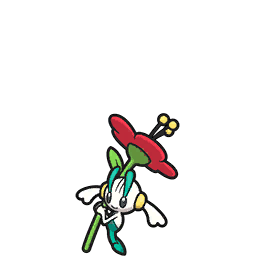
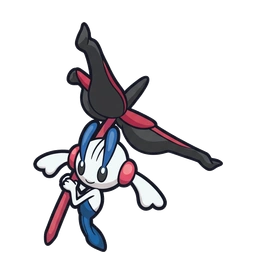
메가플라엣테

Changed region(s): [[0.125, 0.0625, 0.875, 1.0]]

diff --git a/src/skill/PokemonSkillList.js b/src/skill/PokemonSkillList.js
@@ -493,6 +493,16 @@ export const POKEMON_SKILLS = {
     core: ["도발", "날개쉬기", "도깨비불", "플레어드라이브", "브레이브버드", "애크러뱃", "유턴", "화염방사", "회오리불꽃", "순풍"],
     others: ["칼춤", "공중날기", "돌진", "이판사판태클", "울음소리", "불꽃세례", "파괴광선", "쪼기", "솔라빔", "고속이동", "전광석화", "불대문자", "스피드스타", "잠자기", "대타출동", "도둑질", "바둥바둥", "방어", "버티기", "강철날개", "잠꼬대", "비바라기", "쾌청", "열풍", "객기", "깃털댄스", "에어커터", "오버히트", "제비반환", "벌크업", "페인트", "에어슬래시", "기가임팩트", "안개제거", "니트로차지", "폭풍", "더블윙", "테라버스트", "열불내기", "기선제압", "패스트가드", "블레이즈킥", "돌림노래", "불새", "코골기", "날려버리기"],
   },
+  // 플라엣테
+  "0670": {
+    core: ["파멸의빛", "문포스", "드레인키스", "명상", "사이코키네시스", "에너지볼"],
+    others: ["몸통박치기", "몸가누기", "요정의바람", "빛의장막", "매지컬리프", "공생", "소망떨어뜨리기", "아로마테라피", "꽃보라", "매지컬샤인", "솔라빔", "대타출동", "방어", "잠자기", "잠꼬대", "풀묶기", "애교부리기", "도우미", "쾌청", "비바라기", "객기", "웨더볼"],
+  },
+  // 메가플라엣테
+  "0670-m": {
+    core: ["파멸의빛", "문포스", "드레인키스", "명상", "사이코키네시스", "에너지볼"],
+    others: ["몸통박치기", "몸가누기", "요정의바람", "빛의장막", "매지컬리프", "공생", "소망떨어뜨리기", "아로마테라피", "꽃보라", "매지컬샤인", "솔라빔", "대타출동", "방어", "잠자기", "잠꼬대", "풀묶기", "애교부리기", "도우미", "쾌청", "비바라기", "객기", "웨더볼"],
+  },
   // 견고라스
   "0697": {
     core: ["양날박치기", "지진", "역린", "용의춤", "불꽃엄니", "스케일샷", "뿔드릴", "인파이트", "얼음엄니", "아이언헤드"],
@@ -773,6 +783,7 @@ export const POKEMON_SKILL_ALIASES = {
   흑마렉스: "0898-b",
   다투곰: "0901-a",
   달투곰: "0901-b",
+  메가플라엣테: "0670-m",
   메가킬라플로르: "0970-m",
   메가드닐레이브: "0998-m",
 };

diff --git a/src/entity/Item.js b/src/entity/Item.js
@@ -39,10 +39,11 @@ export const itemText = {
   한카리아스나이트: "한카리아스에게 지니게 하면 배틀 중 메가진화할 수 있다.",
   한카리아스나이트Z: "한카리아스에게 지니게 하면 배틀 중 메가진화할 수 있다.",
   킬라플로르나이트: "킬라플로르에게 지니게 하면 배틀 중 메가진화할 수 있다.",
+  플라엣테나이트: "플라엣테에게 지니게 하면 배틀 중 메가진화할 수 있다.",
 };
 
 //탁떨, 트릭 적용 안되는 아이템
-export const noNullItem = ["녹슨검", "녹슨방패", "메타그로스나이트", "리자몽나이트X", "리자몽나이트Y", "보만다나이트", "입치트나이트", "아쿠스타나이트", "대짱이나이트", "마기라스나이트", "무장조나이트", "한카리아스나이트", "한카리아스나이트Z", "드닐레이브나이트", "킬라플로르나이트"];
+export const noNullItem = ["녹슨검", "녹슨방패", "메타그로스나이트", "리자몽나이트X", "리자몽나이트Y", "보만다나이트", "입치트나이트", "아쿠스타나이트", "대짱이나이트", "마기라스나이트", "무장조나이트", "한카리아스나이트", "한카리아스나이트Z", "드닐레이브나이트", "킬라플로르나이트", "플라엣테나이트"];
 
 export const aiItemScore = {
   // 탁떨로 딸궜을때 유용한 정도 가중치

diff --git a/src/entity/Skill/skillList/catk.js b/src/entity/Skill/skillList/catk.js
@@ -36,6 +36,7 @@ export const catkSkills = [
   new Skill("머드샷", "땅", 55, 95, 15, 0, "catk", null, "상대의 스피드를 1랭크 떨어뜨린다.", [{ name: "랭크변화", probability: 100, stat: "speed", target: "def", value: -1 }], {}),
 
   new Skill("문포스", "페어리", 95, 100, 15, 0, "catk", null, "30% 확률로 상대의 특수공격을 1랭크 떨어뜨린다.", [{ name: "랭크변화", probability: 30, stat: "catk", target: "def", value: -1 }], {}),
+  new Skill("파멸의빛", "페어리", 140, 90, 5, 0, "catk", null, "자신도 대상에게 준 피해의 ½만큼 반동 피해를 받는다.", [{ name: "반동", ratio: 2 }], { rebound: true }),
   new Skill("섀도볼", "고스트", 80, 100, 15, 0, "catk", null, "20% 확률로 상대의 특수방어를 1랭크 떨어뜨린다.", [{ name: "랭크변화", probability: 20, stat: "cdef", target: "def", value: -1 }], {}),
   new Skill("기합구슬", "격투", 120, 70, 5, 0, "catk", null, "10%의 확률로 상대의 특수방어를 떨어뜨린다.", [{ name: "랭크변화", probability: 10, stat: "cdef", target: "def", value: -1 }], {}),
   new Skill("대지의힘", "땅", 90, 100, 10, 0, "catk", null, "10%의 확률로 상대의 특수방어를 1랭크 떨어뜨린다.", [{ name: "랭크변화", probability: 10, stat: "cdef", target: "def", value: -1 }]),

diff --git a/src/entity/Pokemon/SamplePokemon.js b/src/entity/Pokemon/SamplePokemon.js
@@ -172,6 +172,9 @@ new PokemonTemplate("게노세크트", "0649", "5V0A", "CS252", "speed", "atk",
 new PokemonTemplate("파이어로", "0663", "6V", "AS252", "atk", "catk",
   "브레이브버드", "플레어드라이브", "유턴", "더블윙", "구애머리띠", "질풍날개", "물리어태커"),
 
+new PokemonTemplate("메가플라엣테", "0670", "5V0A", "CS252", "speed", "atk",
+  "문포스", "명상", "드레인키스", "파멸의빛", "플라엣테나이트", "공생", "특수어태커"),
+
 new PokemonTemplate("견고라스", "0697", "6V", "AS252", "speed", "catk",
   "양날박치기", "스케일샷", "용의춤", "불꽃엄니", "기합의띠", "돌머리", "물리어태커"),
 

diff --git a/src/entity/Ability.js b/src/entity/Ability.js
@@ -52,6 +52,12 @@ export const abilObject = {
   부식: {
     text: "강철타입이나 독타입 포켓몬도 독 또는 맹독 상태로 만들 수 있다.",
   },
+  플라워베일: {
+    text: "아군 풀타입 포켓몬의 능력치가 떨어지지 않고 상태 이상도 걸리지 않는다.",
+  },
+  공생: {
+    text: "도구를 소모한 아군에게 자신이 들고 있는 도구를 건넨다.",
+  },
   깨어진갑옷: {
     text: "물리 기술을 맞으면 방어가 1랭크 떨어지고 스피드가 2랭크 올라간다.",
   },

diff --git a/src/component/customScreen/sampleInfo/ItemSearchModal.js b/src/component/customScreen/sampleInfo/ItemSearchModal.js
@@ -29,6 +29,7 @@ const EXCLUSIVE_ITEMS = {
   한카리아스나이트Z: (p) => isPokemon(p, "한카리아스"),
   드닐레이브나이트: (p) => isPokemon(p, "드닐레이브"),
   킬라플로르나이트: (p) => isPokemon(p, "킬라플로르"),
+  플라엣테나이트: (p) => isPokemon(p, "플라엣테"),
 };
 
 export const getFavoriteItemsForPokemon = (pokemon) => {

diff --git a/src/entity/Pokemon/MegaData.js b/src/entity/Pokemon/MegaData.js
@@ -130,6 +130,15 @@ export const megaDataList = {
       abil: "적응력",
     },
   ],
+  // 플라엣테
+  "0670": [
+    {
+      stone: "플라엣테나이트",
+      megaFormId: "0670-m",
+      name: "메가플라엣테",
+      abil: "페어리오라",
+    },
+  ],
 };
 
 /**

diff --git a/src/component/battleScreen/bottom/info/InfoArea.js b/src/component/battleScreen/bottom/info/InfoArea.js
@@ -25,8 +25,10 @@ export default InfoArea;
 const PokemonImage = styled.img`
   position: absolute;
   left: 2vh;
-  top: 10.5vh;
+  top: 9vh;
   width: 12vh;
+  height: 12vh;
+  object-fit: contain;
 `;
 
 const HeaderCard = styled.div`

diff --git a/public/txt/md/POKEMON_ITEM_STATS_SURVEY.md b/public/txt/md/POKEMON_ITEM_STATS_SURVEY.md
@@ -1,6 +1,7 @@
 # pkmnchamps 도감 기반 샘플 포켓몬 지닌 아이템 전수조사 보고서
 
 > **조사 기준**
+>
 > - **출처**: [pkmnchamps.com](https://pkmnchamps.com/pokedex) 9세대 싱글 랭크배틀 최신 통계
 > - **대상**: `SamplePokemon.js` 등록 샘플 포켓몬 총 108종
 > - **목적**: 현재 인게임 샘플의 지닌 아이템과 실제 랭크배틀 채용 통계의 일치 여부 및 순위 비교 분석
@@ -30,92 +31,91 @@
 
 ### A. 통계 1위 아이템과 일치하는 샘플 (총 28마리)
 
-| 포켓몬 | 지닌 아이템 | 통계 채용률 | 비고 |
-|---|---|---|---|
-| **메가리자몽Y** | 리자몽나이트Y | 70.2% | 압도적 1위 |
-| **윈디** | 울퉁불퉁멧 | 47.6% | 물리막이 정석 |
-| **메가아쿠스타** | 아쿠스타나이트 | 95.1% | 메가스톤 전용 |
-| **갸라도스** | 울퉁불퉁멧 | 44.8% | 위협 연계 |
-| **블래키** | 먹다남은음식 | 88.6% | 깔짝/막이 정석 |
-| **쏘콘** | 울퉁불퉁멧 | 27.6% | 옹골참/바디프레스 연계 |
-| **메가마기라스** | 마기라스나이트 | 33.3% | 메가스톤 1위 |
-| **메가대짱이** | 대짱이나이트 | 46.1% | 쓱쓱 메가스톤 1위 |
-| **패리퍼** | 축축한바위 | 60.1% | 잔비 세터 정석 |
-| **코터스** | 뜨거운바위 | 54.6% | 가뭄 세터 정석 |
-| **메가입치트** | 입치트나이트 | 99.5% | 천하장사 메가스톤 |
-| **메가보만다** | 보만다나이트 | 97.9% | 스카이스킨 메가스톤 |
-| **메가메타그로스** | 메타그로스나이트 | 94.8% | 단단한발톱 메가스톤 |
-| **메가한카리아스Z** | 한카리아스나이트Z | 33.8% | 커스텀 메가스톤 1위 |
-| **하마돈** | 자뭉열매 | 68.9% | 쿠션/하품 딜탱 정석 |
-| **맘모꾸리** | 기합의띠 | 85.8% | 기띠 스텔스록/어태커 |
-| **샹델라** | 구애스카프 | 31.6% | 고특공 고속 스위퍼 |
-| **삼삼드래** | 구애스카프 | 87.2% | 고속 스위퍼 정석 |
-| **불카모스** | 자뭉열매 | 47.2% | 나비춤 기점 마련 |
-| **크레베이스** | 울퉁불퉁멧 | 50.9% | 물리 극막이 |
-| **따라큐** | 생명의구슬 | 81.1% | 탈 + 칼춤 어태커 정석 |
-| **오롱털** | 빛의점토 | 88.8% | 짓궂은마음 쌍벽 세터 |
-| **드래펄트** | 생명의구슬 | 36.8% | 쌍두/특수 고화력형 |
-| **사마자르** | 기합의띠 | 62.8% | 암석액스 장판 세터 |
-| **마스카나** | 구애스카프 | 60.9% | 변환자재 고속 유턴 |
-| **대도각참** | 검은안경 | 49.9% | 총대장 기습 보정 |
-| **메가드닐레이브** | 드닐레이브나이트 | 52.5% | 커스텀 메가스톤 1위 |
-| **브리두라스** | 자뭉열매 | 31.9% | 지구력 버티기 쿠션 |
+| 포켓몬              | 지닌 아이템       | 통계 채용률 | 비고                   |
+| ------------------- | ----------------- | ----------- | ---------------------- |
+| **메가리자몽Y**     | 리자몽나이트Y     | 70.2%       | 압도적 1위             |
+| **윈디**            | 울퉁불퉁멧        | 47.6%       | 물리막이 정석          |
+| **메가아쿠스타**    | 아쿠스타나이트    | 95.1%       | 메가스톤 전용          |
+| **갸라도스**        | 울퉁불퉁멧        | 44.8%       | 위협 연계              |
+| **블래키**          | 먹다남은음식      | 88.6%       | 깔짝/막이 정석         |
+| **쏘콘**            | 울퉁불퉁멧        | 27.6%       | 옹골참/바디프레스 연계 |
+| **메가마기라스**    | 마기라스나이트    | 33.3%       | 메가스톤 1위           |
+| **메가대짱이**      | 대짱이나이트      | 46.1%       | 쓱쓱 메가스톤 1위      |
+| **패리퍼**          | 축축한바위        | 60.1%       | 잔비 세터 정석         |
+| **코터스**          | 뜨거운바위        | 54.6%       | 가뭄 세터 정석         |
+| **메가입치트**      | 입치트나이트      | 99.5%       | 천하장사 메가스톤      |
+| **메가보만다**      | 보만다나이트      | 97.9%       | 스카이스킨 메가스톤    |
+| **메가메타그로스**  | 메타그로스나이트  | 94.8%       | 단단한발톱 메가스톤    |
+| **메가한카리아스Z** | 한카리아스나이트Z | 33.8%       | 커스텀 메가스톤 1위    |
+| **하마돈**          | 자뭉열매          | 68.9%       | 쿠션/하품 딜탱 정석    |
+| **맘모꾸리**        | 기합의띠          | 85.8%       | 기띠 스텔스록/어태커   |
+| **샹델라**          | 구애스카프        | 31.6%       | 고특공 고속 스위퍼     |
+| **삼삼드래**        | 구애스카프        | 87.2%       | 고속 스위퍼 정석       |
+| **불카모스**        | 자뭉열매          | 47.2%       | 나비춤 기점 마련       |
+| **크레베이스**      | 울퉁불퉁멧        | 50.9%       | 물리 극막이            |
+| **따라큐**          | 생명의구슬        | 81.1%       | 탈 + 칼춤 어태커 정석  |
+| **오롱털**          | 빛의점토          | 88.8%       | 짓궂은마음 쌍벽 세터   |
+| **드래펄트**        | 생명의구슬        | 36.8%       | 쌍두/특수 고화력형     |
+| **사마자르**        | 기합의띠          | 62.8%       | 암석액스 장판 세터     |
+| **마스카나**        | 구애스카프        | 60.9%       | 변환자재 고속 유턴     |
+| **대도각참**        | 검은안경          | 49.9%       | 총대장 기습 보정       |
+| **메가드닐레이브**  | 드닐레이브나이트  | 52.5%       | 커스텀 메가스톤 1위    |
+| **브리두라스**      | 자뭉열매          | 31.9%       | 지구력 버티기 쿠션     |
 
 ---
 
 ### B. 통계 2위 아이템 채용 샘플 (8마리)
 
-| 포켓몬 | 현재 샘플 도구 | 순위 및 채용률 | 통계 1위 도구 (채용률) | 상위 3위권 요약 |
-|---|---|---|---|---|
-| **메가리자몽X** | 리자몽나이트X | **2위** (28.5%) | 리자몽나이트Y (70.2%) | 1위 리자몽나이트Y (70.2%) / 2위 리자몽나이트X (28.5%) |
-| **메가무장조** | 무장조나이트 | **2위** (10.5%) | 울퉁불퉁멧 (64.5%) | 1위 울퉁불퉁멧 (64.5%) / 2위 무장조나이트 (10.5%) / 3위 자뭉열매 (8.7%) |
-| **대짱이** | 자뭉열매 | **2위** (30.8%) | 대짱이나이트 (46.1%) | 1위 대짱이나이트 (46.1%) / 2위 자뭉열매 (30.8%) / 3위 먹다남은음식 (9.7%) |
-| **히트로토무** | 구애스카프 | **2위** (26.8%) | 기합의띠 (28.6%) | 1위 기합의띠 (28.6%) / 2위 구애스카프 (26.8%) / 3위 수불열매 (12.1%) |
-| **샤로다** | 먹다남은음식 | **2위** (20.3%) | 기합의띠 (28.1%) | 1위 기합의띠 (28.1%) / 2위 먹다남은음식 (20.3%) / 3위 빛의점토 (9.9%) |
-| **견고라스** | 기합의띠 | **2위** (17.5%) | 구애스카프 (32.4%) | 1위 구애스카프 (32.4%) / 2위 기합의띠 (17.5%) / 3위 광각렌즈 (14.4%) |
-| **깨비물거미** | 신비의물방울 | **2위** (20.1%) | 자뭉열매 (40.1%) | 1위 자뭉열매 (40.1%) / 2위 신비의물방울 (20.1%) / 3위 기합의띠 (9.9%) |
-| **아머까오** | 먹다남은음식 | **2위** (23.9%) | 울퉁불퉁멧 (65.4%) | 1위 울퉁불퉁멧 (65.4%) / 2위 먹다남은음식 (23.9%) / 3위 자뭉열매 (9.2%) |
+| 포켓몬          | 현재 샘플 도구 | 순위 및 채용률  | 통계 1위 도구 (채용률) | 상위 3위권 요약                                                           |
+| --------------- | -------------- | --------------- | ---------------------- | ------------------------------------------------------------------------- |
+| **메가리자몽X** | 리자몽나이트X  | **2위** (28.5%) | 리자몽나이트Y (70.2%)  | 1위 리자몽나이트Y (70.2%) / 2위 리자몽나이트X (28.5%)                     |
+| **메가무장조**  | 무장조나이트   | **2위** (10.5%) | 울퉁불퉁멧 (64.5%)     | 1위 울퉁불퉁멧 (64.5%) / 2위 무장조나이트 (10.5%) / 3위 자뭉열매 (8.7%)   |
+| **대짱이**      | 자뭉열매       | **2위** (30.8%) | 대짱이나이트 (46.1%)   | 1위 대짱이나이트 (46.1%) / 2위 자뭉열매 (30.8%) / 3위 먹다남은음식 (9.7%) |
+| **샤로다**      | 먹다남은음식   | **2위** (20.3%) | 기합의띠 (28.1%)       | 1위 기합의띠 (28.1%) / 2위 먹다남은음식 (20.3%) / 3위 빛의점토 (9.9%)     |
+| **견고라스**    | 기합의띠       | **2위** (17.5%) | 구애스카프 (32.4%)     | 1위 구애스카프 (32.4%) / 2위 기합의띠 (17.5%) / 3위 광각렌즈 (14.4%)      |
+| **깨비물거미**  | 신비의물방울   | **2위** (20.1%) | 자뭉열매 (40.1%)       | 1위 자뭉열매 (40.1%) / 2위 신비의물방울 (20.1%) / 3위 기합의띠 (9.9%)     |
+| **아머까오**    | 먹다남은음식   | **2위** (23.9%) | 울퉁불퉁멧 (65.4%)     | 1위 울퉁불퉁멧 (65.4%) / 2위 먹다남은음식 (23.9%) / 3위 자뭉열매 (9.2%)   |
 
 ---
 
 ### C. 통계 3위 아이템 채용 샘플 (5마리)
 
-| 포켓몬 | 현재 샘플 도구 | 순위 및 채용률 | 통계 1위 도구 (채용률) | 상위 3위권 요약 |
-|---|---|---|---|---|
-| **무장조** | 자뭉열매 | **3위** (8.7%) | 울퉁불퉁멧 (64.5%) | 1위 울퉁불퉁멧 (64.5%) / 2위 무장조나이트 (10.5%) / 3위 자뭉열매 (8.7%) |
-| **몰드류** | 기합의띠 | **3위** (19.6%) | 구애스카프 (41.0%) | 1위 구애스카프 (41.0%) / 2위 생명의구슬 (28.5%) / 3위 기합의띠 (19.6%) |
-| **에이스번** | 생명의구슬 | **3위** (26.3%) | 기합의띠 (31.0%) | 1위 기합의띠 (31.0%) / 2위 구애스카프 (29.5%) / 3위 생명의구슬 (26.3%) |
-| **대쓰여너** | 생명의구슬 | **3위** (10.8%) | 구애스카프 (67.1%) | 1위 구애스카프 (67.1%) / 2위 신비의물방울 (11.1%) / 3위 생명의구슬 (10.8%) |
-| **드닐레이브** | 생명의구슬 | **3위** (10.8%) | 드닐레이브나이트 (52.5%) | 1위 드닐레이브나이트 (52.5%) / 2위 기합의띠 (23.0%) / 3위 생명의구슬 (10.8%) |
+| 포켓몬         | 현재 샘플 도구 | 순위 및 채용률  | 통계 1위 도구 (채용률)   | 상위 3위권 요약                                                              |
+| -------------- | -------------- | --------------- | ------------------------ | ---------------------------------------------------------------------------- |
+| **무장조**     | 자뭉열매       | **3위** (8.7%)  | 울퉁불퉁멧 (64.5%)       | 1위 울퉁불퉁멧 (64.5%) / 2위 무장조나이트 (10.5%) / 3위 자뭉열매 (8.7%)      |
+| **몰드류**     | 기합의띠       | **3위** (19.6%) | 구애스카프 (41.0%)       | 1위 구애스카프 (41.0%) / 2위 생명의구슬 (28.5%) / 3위 기합의띠 (19.6%)       |
+| **에이스번**   | 생명의구슬     | **3위** (26.3%) | 기합의띠 (31.0%)         | 1위 기합의띠 (31.0%) / 2위 구애스카프 (29.5%) / 3위 생명의구슬 (26.3%)       |
+| **대쓰여너**   | 생명의구슬     | **3위** (10.8%) | 구애스카프 (67.1%)       | 1위 구애스카프 (67.1%) / 2위 신비의물방울 (11.1%) / 3위 생명의구슬 (10.8%)   |
+| **드닐레이브** | 생명의구슬     | **3위** (10.8%) | 드닐레이브나이트 (52.5%) | 1위 드닐레이브나이트 (52.5%) / 2위 기합의띠 (23.0%) / 3위 생명의구슬 (10.8%) |
 
 ---
 
 ### D. 통계 5위 아이템 채용 샘플 (1마리)
 
-| 포켓몬 | 현재 샘플 도구 | 순위 및 채용률 | 통계 1위 도구 (채용률) | 상위 5위권 요약 |
-|---|---|---|---|---|
-| **포푸니크** | 하양허브 | **5위** (4.3%) | 사이코시드 (41.5%) | 1위 사이코시드 (41.5%) / 2위 노말주얼 (31.4%) / 3위 그래스시드 (7.9%) / 4위 기합의띠 (5.3%) / 5위 하양허브 (4.3%) |
+| 포켓몬       | 현재 샘플 도구 | 순위 및 채용률 | 통계 1위 도구 (채용률) | 상위 5위권 요약                                                                                                   |
+| ------------ | -------------- | -------------- | ---------------------- | ----------------------------------------------------------------------------------------------------------------- |
+| **포푸니크** | 하양허브       | **5위** (4.3%) | 사이코시드 (41.5%)     | 1위 사이코시드 (41.5%) / 2위 노말주얼 (31.4%) / 3위 그래스시드 (7.9%) / 4위 기합의띠 (5.3%) / 5위 하양허브 (4.3%) |
 
 ---
 
 ### E. 통계 6위 이하 및 순위권 밖 / 미집계 (14마리)
 
-| 포켓몬 | 현재 샘플 도구 | 통계 순위 및 채용률 | 통계 1위 도구 (채용률) | 상세 사유 |
-|---|---|---|---|---|
-| **메가한카리아스** | 한카리아스나이트 | **9위** (0.4%) | 한카리아스나이트Z (33.8%) | 한카리아스나이트Z에 점유율 집중 |
-| **킬라플로르** | 울퉁불퉁멧 | **9위** (0.2%) | 기합의띠 (55.5%) | 1위 기띠 (55.5%), 2위 풍선 (13.3%) |
-| **한카리아스** | 속임수주사위 | **순위권 밖** (미집계) | 한카리아스나이트Z (33.8%) | 2위 구애스카프 (20.5%), 3위 기합의띠 (17.1%) |
-| **마릴리** | 돌격조끼 | **순위권 밖** (미집계) | 자뭉열매 (54.6%) | 자뭉열매(배북형)가 과반수 독점 |
-| **망나뇽 (물리)** | 구애머리띠 | **순위권 밖** (미집계) | 망나뇽나이트 (74.4%) | 커스텀 망나뇽나이트가 표본의 74% 차지 |
-| **망나뇽 (특수)** | 구애안경 | **순위권 밖** (미집계) | 망나뇽나이트 (74.4%) | 망나뇽나이트에 점유율 집중 |
-| **마기라스** | 돌격조끼 | **순위권 밖** (미집계) | 마기라스나이트 (33.3%) | 2위 먹밥 (14.7%), 3위 자뭉 (14.1%) |
-| **찌르호크** | 구애머리띠 | **순위권 밖** (미집계) | 찌르호크나이트 (77.5%) | 찌르호크나이트 77.5%, 스카프 19.9% |
-| **워시로토무** | 자뭉열매 | **순위권 밖** (미집계) | 기합의띠 (28.6%) | 2위 스카프 (26.8%), 3위 수불열매 (12.1%) |
-| **커트로토무** | 구애안경 | **순위권 밖** (미집계) | 기합의띠 (28.6%) | 1위 기띠, 2위 스카프 위주 |
-| **히검귀** | 구애스카프 | **순위권 밖** (미집계) | 자뭉열매 (34.4%) | 도감 503 일반 대검귀 기준 통계 집계 |
-| **파이어로** | 구애머리띠 | **순위권 밖** (미집계) | 울퉁불퉁멧 (34.5%) | 날개쉬기 내구형 울멧이 1위 차지 |
-| **누리레느** | 돌격조끼 | **순위권 밖** (미집계) | 자뭉열매 (40.8%) | 2위 먹다남은음식 (23.2%) |
-| **고릴타** | 돌격조끼 | **순위권 밖** (미집계) | 생명의구슬 (24.8%) | 2위 기적의씨 (20.8%), 3위 그래스시드 (14.3%) |
+| 포켓몬             | 현재 샘플 도구   | 통계 순위 및 채용률    | 통계 1위 도구 (채용률)    | 상세 사유                                    |
+| ------------------ | ---------------- | ---------------------- | ------------------------- | -------------------------------------------- |
+| **메가한카리아스** | 한카리아스나이트 | **9위** (0.4%)         | 한카리아스나이트Z (33.8%) | 한카리아스나이트Z에 점유율 집중              |
+| **킬라플로르**     | 울퉁불퉁멧       | **9위** (0.2%)         | 기합의띠 (55.5%)          | 1위 기띠 (55.5%), 2위 풍선 (13.3%)           |
+| **한카리아스**     | 속임수주사위     | **순위권 밖** (미집계) | 한카리아스나이트Z (33.8%) | 2위 구애스카프 (20.5%), 3위 기합의띠 (17.1%) |
+| **마릴리**         | 돌격조끼         | **순위권 밖** (미집계) | 자뭉열매 (54.6%)          | 자뭉열매(배북형)가 과반수 독점               |
+| **망나뇽 (물리)**  | 구애머리띠       | **순위권 밖** (미집계) | 망나뇽나이트 (74.4%)      | 커스텀 망나뇽나이트가 표본의 74% 차지        |
+| **망나뇽 (특수)**  | 구애안경         | **순위권 밖** (미집계) | 망나뇽나이트 (74.4%)      | 망나뇽나이트에 점유율 집중                   |
+| **마기라스**       | 돌격조끼         | **순위권 밖** (미집계) | 마기라스나이트 (33.3%)    | 2위 먹밥 (14.7%), 3위 자뭉 (14.1%)           |
+| **찌르호크**       | 구애머리띠       | **순위권 밖** (미집계) | 찌르호크나이트 (77.5%)    | 찌르호크나이트 77.5%, 스카프 19.9%           |
+| **워시로토무**     | 자뭉열매         | **순위권 밖** (미집계) | 기합의띠 (28.6%)          | 2위 스카프 (26.8%), 3위 수불열매 (12.1%)     |
+| **커트로토무**     | 구애안경         | **순위권 밖** (미집계) | 기합의띠 (28.6%)          | 1위 기띠, 2위 스카프 위주                    |
+| **히검귀**         | 구애스카프       | **순위권 밖** (미집계) | 자뭉열매 (34.4%)          | 도감 503 일반 대검귀 기준 통계 집계          |
+| **파이어로**       | 구애머리띠       | **순위권 밖** (미집계) | 울퉁불퉁멧 (34.5%)        | 날개쉬기 내구형 울멧이 1위 차지              |
+| **누리레느**       | 돌격조끼         | **순위권 밖** (미집계) | 자뭉열매 (40.8%)          | 2위 먹다남은음식 (23.2%)                     |
+| **고릴타**         | 돌격조끼         | **순위권 밖** (미집계) | 생명의구슬 (24.8%)        | 2위 기적의씨 (20.8%), 3위 그래스시드 (14.3%) |
 
 ---
 
@@ -135,7 +135,6 @@
 
 통계 1위 및 실전 최적화에 맞춘 12종 포켓몬 아이템 변경 목록입니다:
 
-- **히트로토무**: 기합의띠
 - **견고라스**: 구애스카프
 - **깨비물거미**: 자뭉열매
 - **아머까오**: 울퉁불퉁멧
